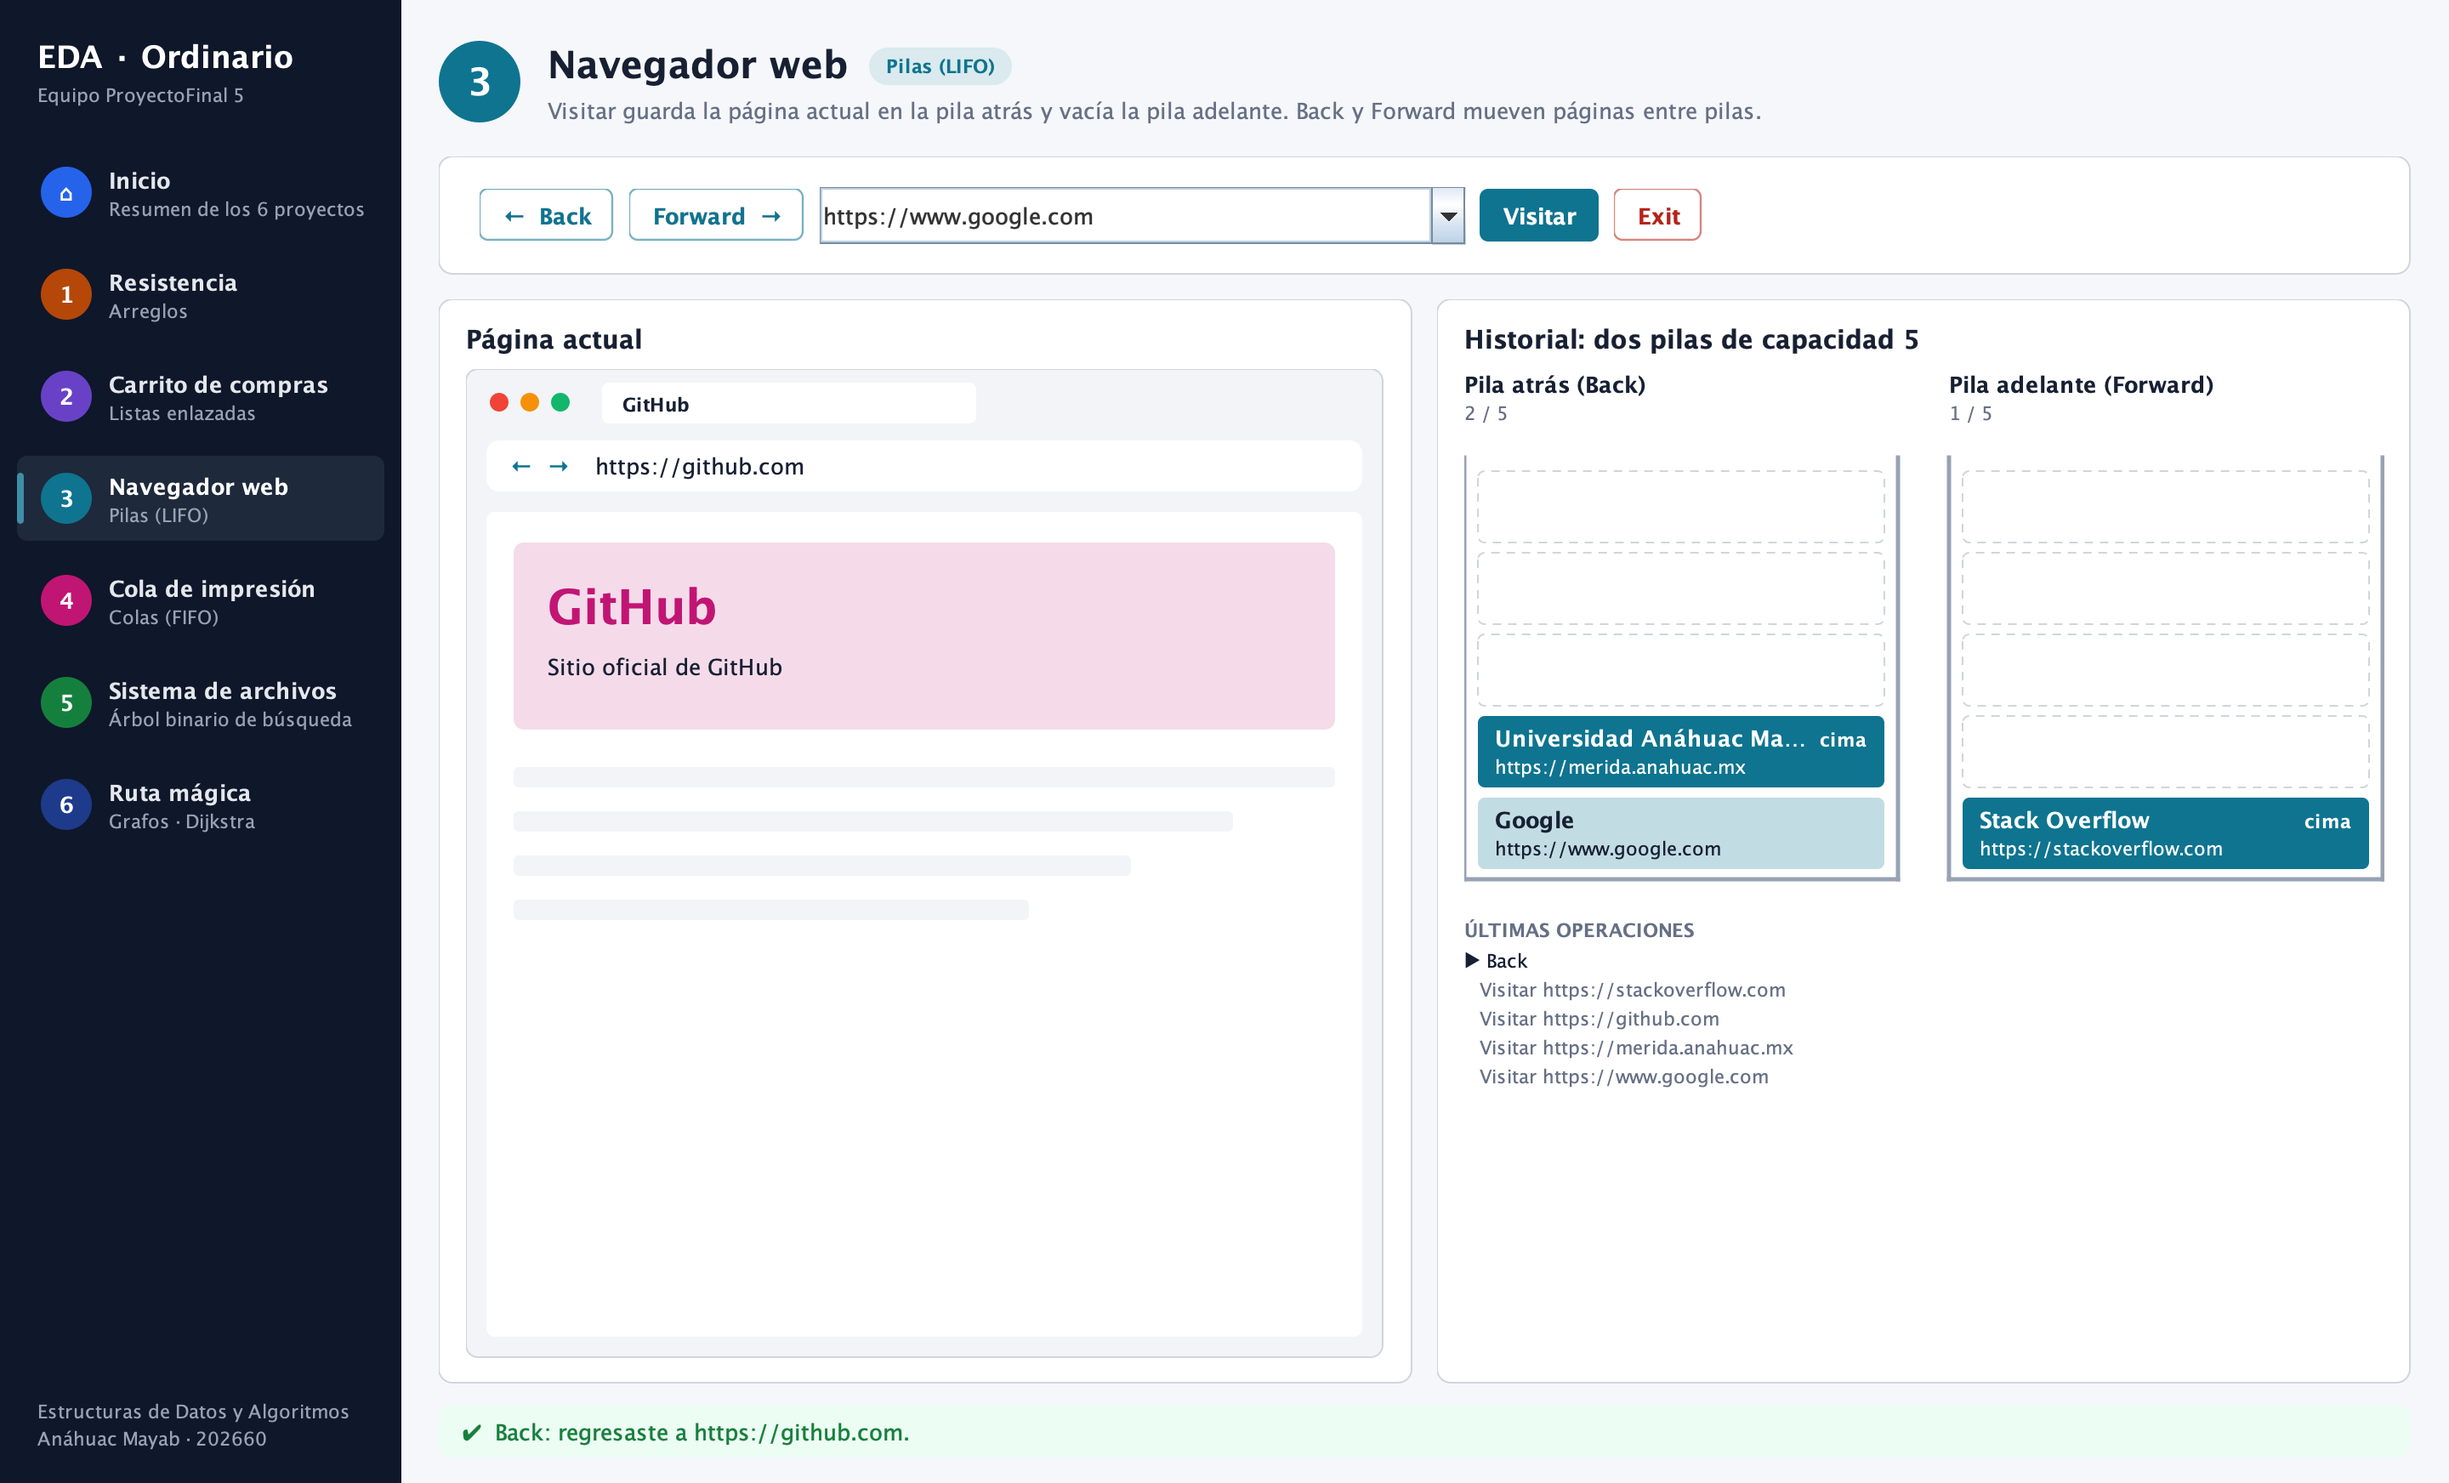
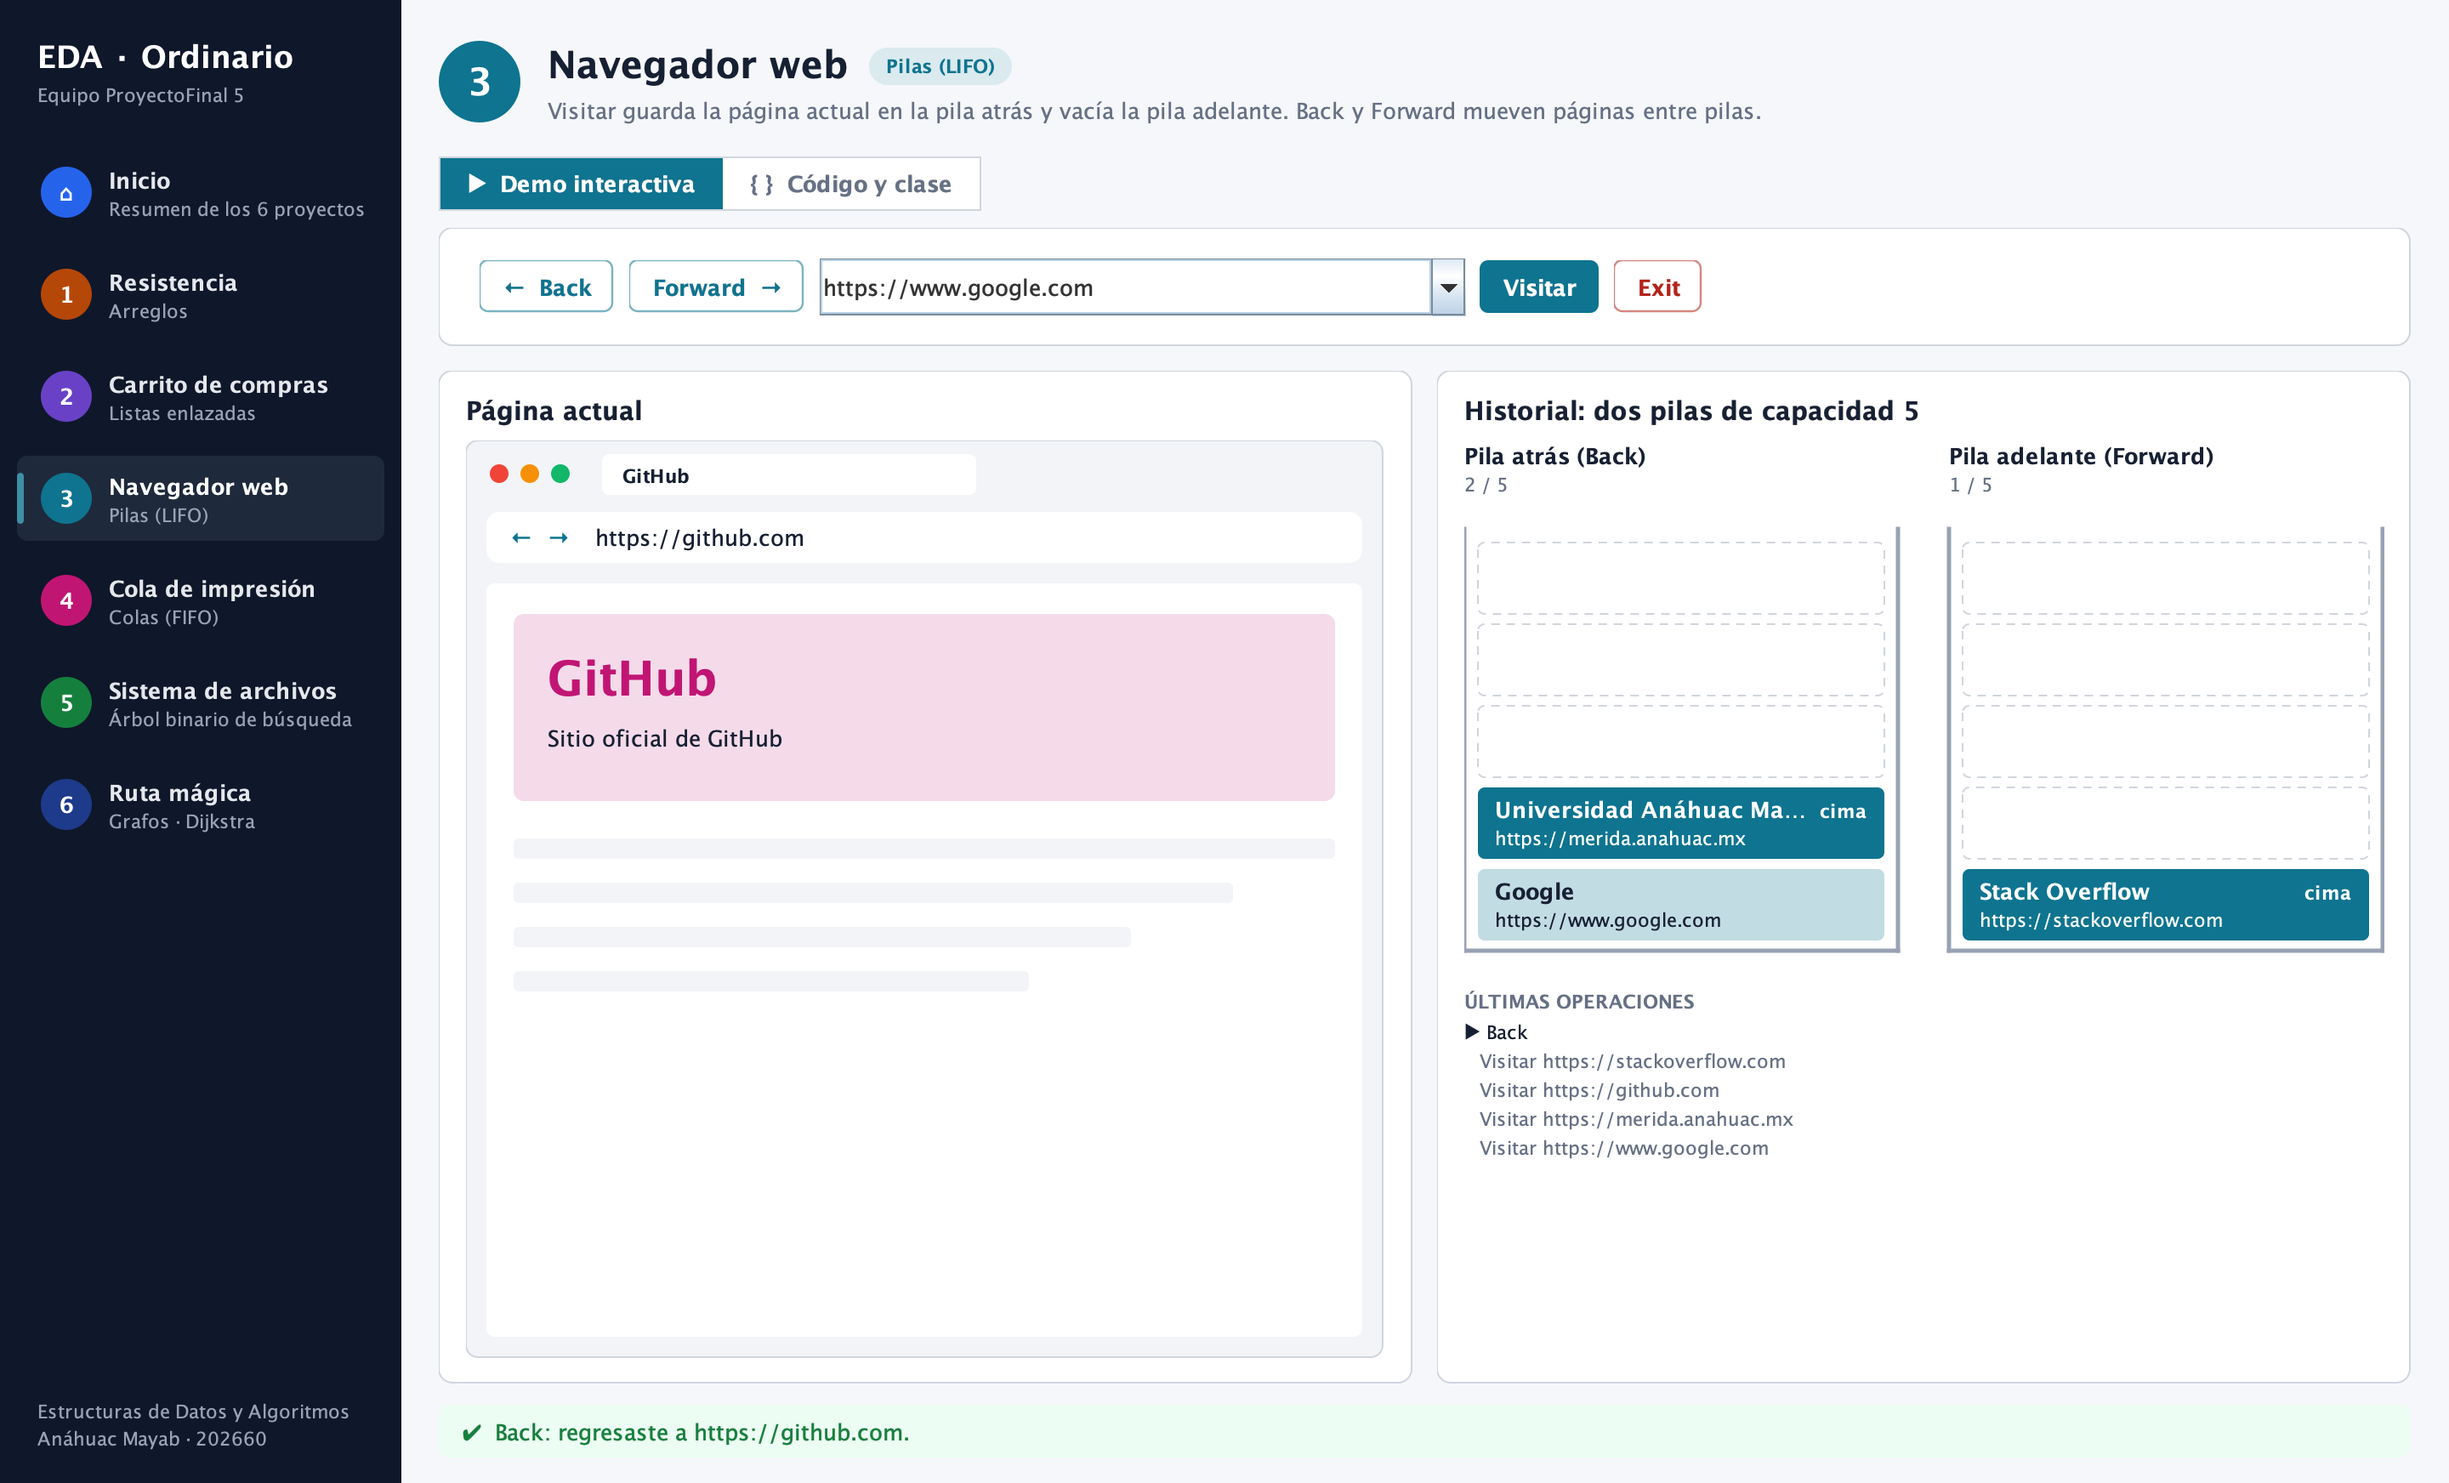
Capturas y README de la vista Código y clase

Changed region(s): [[0.1562, 0.0929, 0.9062, 0.5573], [0.5938, 0.4644, 0.9688, 0.7741]]

diff --git a/src/dashboard/Capturas.java b/src/dashboard/Capturas.java
@@ -84,6 +84,15 @@ public final class Capturas {
         capturar(carpeta, "06_ruta_paso_a_paso", Dashboard.clave(6),
                 () -> ruta.consultar("Tekax", "Motul", true), 2900);
 
+        // Rama explicacion-clase: la pestaña "Código y clase" de cada proyecto.
+        String[] nombres = {"resistencia", "carrito", "navegador", "cola", "archivos", "ruta"};
+        for (int i = 0; i < p.size(); i++) {
+            PanelProyecto proyecto = p.get(i);
+            capturar(carpeta, "clase_0" + (i + 1) + "_" + nombres[i], Dashboard.clave(i + 1),
+                    () -> proyecto.mostrarCodigoClase(true), 0);
+            SwingUtilities.invokeAndWait(() -> proyecto.mostrarCodigoClase(false));
+        }
+
         SwingUtilities.invokeAndWait(() -> dashboard.dispose());
         System.out.println("Capturas guardadas en " + carpeta.getPath());
         System.exit(0);

diff --git a/README.md b/README.md
@@ -104,12 +104,36 @@ La barra lateral lleva a cada proyecto por separado; la pantalla de inicio tiene
 |---|---|
 | ![Ruta](docs/capturas/06_ruta_sisal_espita.png) | ![Paso a paso](docs/capturas/06_ruta_paso_a_paso.png) |
 
+## Código y clase (rama `explicacion-clase`)
+
+En esta rama cada proyecto tiene dos vistas, que se cambian con los botones de arriba: **Demo interactiva** (la de siempre) y **Código y clase**. La segunda explica qué funciones usamos y cómo se relacionan con lo visto en clase (Brightspace › Contenido › Parcial 1 y Parcial 2):
+
+- A la izquierda, las funciones del proyecto.
+- Arriba a la derecha, el tema de clase y su material de Brightspace, y una explicación de cómo se relaciona el código con lo que vimos.
+- Abajo, el código real del método (raw), con números de línea y la ruta del archivo. Se lee en el momento desde `src/`, así que siempre coincide con el programa que se ejecuta.
+
+| # | Proyecto | Funciones explicadas | Tema de clase |
+|---|---|---|---|
+| 1 | Resistencia | `porIndice`, constructor de `Resistencia`, `generarResistencias`, `calcularTotal` (paralelo) | Parcial 1: arreglos y pilas |
+| 2 | Carrito | `agregarProducto`, `eliminarPorId`, `calcularTotal` | Parcial 1: listas enlazadas |
+| 3 | Navegador | `apilar`, `desapilar`, `atras` | Parcial 1: pilas |
+| 4 | Cola de impresión | `encolar`, `atender` | Parcial 1: colas |
+| 5 | Sistema de archivos | `insertar`, `buscar`, `inorden`, `eliminar` | Parcial 2: 6. Árboles |
+| 6 | Ruta mágica | `agregarCarretera`, `Dijkstra`, `getRuta`, `desdeLineas` | Parcial 2: 7. Grafos y El camino más corto |
+
+| Sistema de archivos | Ruta mágica |
+|---|---|
+| ![Código y clase: árbol](docs/capturas/clase_05_archivos.png) | ![Código y clase: grafos](docs/capturas/clase_06_ruta.png) |
+
+Las referencias están en `src/dashboard/clase/CatalogoClase.java` (una lista por proyecto); para agregar una función basta con añadir otra `Referencia` con el archivo y el inicio de su firma.
+
 ## Estructura del repositorio
 
 ```
 src/
 ├── dashboard/              ventana principal, tema visual, inicio y capturas
-│   └── proyectos/          una pantalla por proyecto (ProyectoResistencia, ProyectoCarrito, …)
+│   ├── proyectos/          una pantalla por proyecto (ProyectoResistencia, ProyectoCarrito, …)
+│   └── clase/              pestaña "Código y clase": referencias a la clase y lector del código
 ├── resistencia/            proyecto 1: modelo, estructuras y vista originales
 ├── carrito/                proyecto 2: Producto, NodoProducto, ListaProductos, Carrito, …
 ├── navegador/              proyecto 3: modelo (Pila, Navegador, …), consola y ventana original
